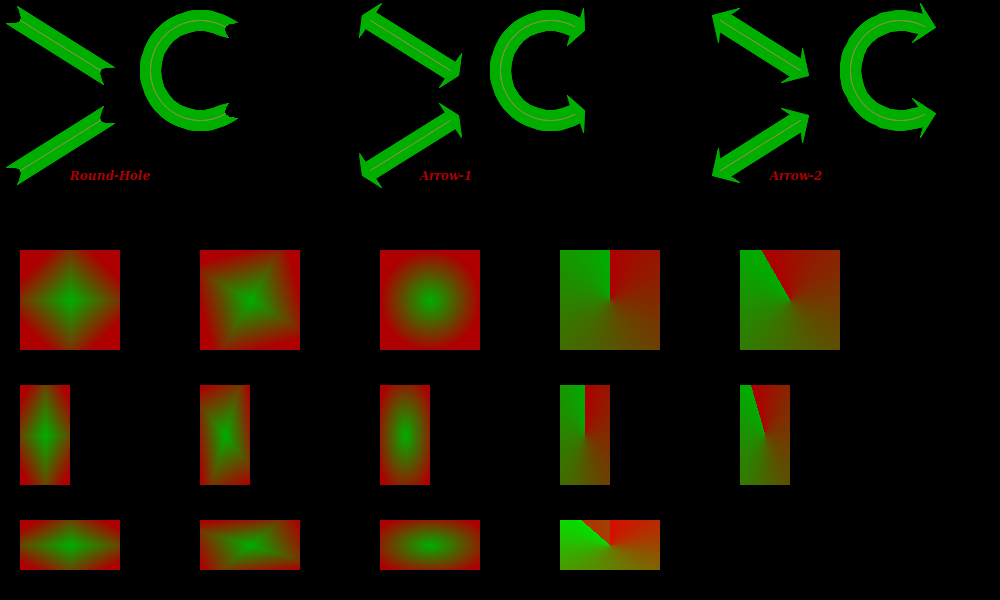
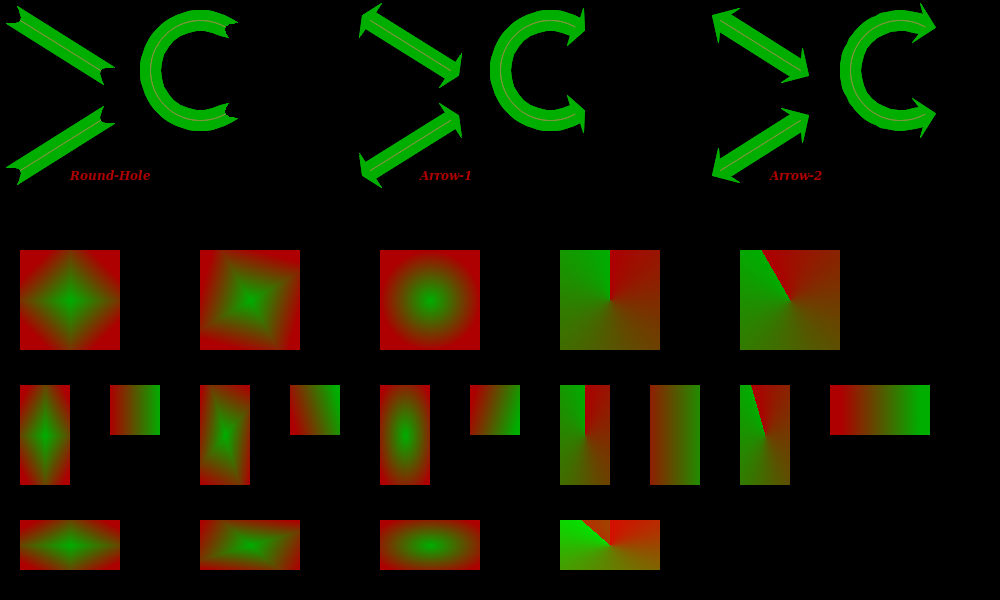
Cleanup on point clipping

diff --git a/src/Pt-Gfx/Rasterizer2.cpp b/src/Pt-Gfx/Rasterizer2.cpp
@@ -157,7 +157,8 @@ void Rasterizer2::setBrush( const Brush& brush )
             _brushImage = &_brushBuffer;
             break;
 
-        case Brush::DiamondGradient     : /* Fallthrough */
+        case Brush::LinearGradient      : /* Fallthrough */
+        case Brush::RectangularGradient : /* Fallthrough */
         case Brush::RadialGradient      : /* Fallthrough */
         case Brush::ConicalGradient     :
             _isGradient = true;
@@ -320,9 +321,10 @@ void Rasterizer2::updateGradientBrush(Pt::int32_t width, Pt::int32_t height)
             _brushBuffer.reset(_image->format(), Size(1, height));
             break;
 
-        case Pt::Gfx::Brush::DiamondGradient : /* Fallthrough */
-        case Pt::Gfx::Brush::RadialGradient  : /* Fallthrough */
-        case Pt::Gfx::Brush::ConicalGradient :
+        case Pt::Gfx::Brush::LinearGradient      : /* Fallthrough */
+        case Pt::Gfx::Brush::RectangularGradient : /* Fallthrough */
+        case Pt::Gfx::Brush::RadialGradient      : /* Fallthrough */
+        case Pt::Gfx::Brush::ConicalGradient     :
             // Resize the brush buffer
             _brushBuffer.reset(_image->format(), Size(width, height));
             break;
@@ -374,15 +376,56 @@ void Rasterizer2::updateGradientBrush(Pt::int32_t width, Pt::int32_t height)
 
     const float mfFac  = 2.0f / Gfx::Math::fastSqrt(xyRat * xyRat + yxRat * yxRat);
 
-    const float rad    = _brush.angle() * Gfx::Math::PiDiv180 - Gfx::Math::PiDiv2;
-    const float sval   = Gfx::Math::fastSin(rad);
-    const float cval   = Gfx::Math::fastCos(rad);
-
     Pt::uint8_t* pixel = _brushBuffer.data();
 
     switch(_brush.fillStyle()) {
-        case Pt::Gfx::Brush::DiamondGradient: {
+        case Pt::Gfx::Brush::LinearGradient: {
+            // Calculate the rotation
+            const float rad  = _brush.angle() * Gfx::Math::PiDiv180 - Gfx::Math::PiDiv4;
+            const float sval = Gfx::Math::fastSin(rad);
+            const float cval = Gfx::Math::fastCos(rad);
+            // Determine the reference line
+            const float wq  = Gfx::Math::fastSqrt(width * width + height * height) * 0.25f;
+            const float x1  = -wq;
+            const float y1  =  wq;
+            const float x2  =  wq;
+            const float y2  = -wq;
+            // Calculate the rotated reference line
+            const float rx1 = ( sval * x1 + cval * y1) + ctrX;
+            const float ry1 = ( cval * x1 - sval * y1) + ctrY;
+            const float rx2 = ( sval * x2 + cval * y2) + ctrX;
+            const float ry2 = ( cval * x2 - sval * y2) + ctrY;
+            // Calculate the gradient of the rotated reference line
+            const float rm  = (ry2 - ry1) / (rx1 - rx2);
+            // Create the gradient
+            //static int qqq = -180; qqq += 180;
+            //setPen(Color::fromRgb8(255,255,255,255));
+            //strokeOnePixelLine(Point(20 + 90 + qqq + rx1, 250 + 135 + ry1), Point(20 + 90 + qqq + rx2, 250 + 135 + ry2), 0);
+            for(Pt::int32_t y = 0; y < height; ++y) {
+                float const p0 = rm * (y - ry1) + rx1;
+                float const p1 = rm * (y - ry2) + rx2;
+                float const d  = 1.0f / (p1 - p0);
+                for(Pt::int32_t x = 0; x < width; ++x) {
+                    const float dist = d * (x - p0);
+                    const float mf   = (dist <= 0.0f) ? 0.0f : ( (dist >= 1.0f) ? 1.0f : dist );
+                    const float imf  = 1.0f - mf;
+                    *pixel++ = (bs * mf + be * imf);
+                    *pixel++ = (gs * mf + ge * imf);
+                    *pixel++ = (rs * mf + re * imf);
+                    *pixel++ = (as * mf + ae * imf);
+                }
+            }
+            break;
+        }
+
+        case Pt::Gfx::Brush::RectangularGradient: {
+            // Calculate the rotation
+            const float rad  = -_brush.angle() * Gfx::Math::PiDiv180;
+            const float sval = Gfx::Math::fastSin(rad);
+            const float cval = Gfx::Math::fastCos(rad);
+            // Calculate the inverse length
             const float ilen = mfFac / (ctrX + ctrY);
+            // Create the gradient
             for(Pt::int32_t y = 0; y < height; ++y) {
                 const float dy = (y - ctrY) * xyRat;
                 for(Pt::int32_t x = 0; x < width; ++x) {
@@ -402,7 +445,9 @@ void Rasterizer2::updateGradientBrush(Pt::int32_t width, Pt::int32_t height)
         }
 
         case Pt::Gfx::Brush::RadialGradient: {
+            // Calculate the inverse length
             const float ilen = mfFac / Gfx::Math::fastSqrt(ctrX * ctrX + ctrY * ctrY);
+            // Create the gradient
             for(Pt::int32_t y = 0; y < height; ++y) {
                 const float dy  = (y - ctrY) * xyRat;
                 for(Pt::int32_t x = 0; x < width; ++x) {
@@ -420,6 +465,11 @@ void Rasterizer2::updateGradientBrush(Pt::int32_t width, Pt::int32_t height)
         }
 
         case Pt::Gfx::Brush::ConicalGradient: {
+            // Calculate the rotation
+            const float rad  = _brush.angle() * Gfx::Math::PiDiv180 - Gfx::Math::PiDiv2;
+            const float sval = Gfx::Math::fastSin(rad);
+            const float cval = Gfx::Math::fastCos(rad);
+            // Create the gradient
             for(Pt::int32_t y = 0; y < height; ++y) {
                 const float dy = -(y - ctrY) * xyRat; // Sign inversion due to differences between cartesian and computer coordinate systems
                 for(Pt::int32_t x = 0; x < width; ++x) {
@@ -427,8 +477,8 @@ void Rasterizer2::updateGradientBrush(Pt::int32_t width, Pt::int32_t height)
                     const float ry   = (-sval * dx + cval * dy);
                     const float rx   = ( cval * dx + sval * dy);
                     const float dist = (Gfx::Math::fastAtan2(ry, rx) + Gfx::Math::Pi) / Gfx::Math::PiMul2;
-                          float mf   = (dist <= 0.0f) ? 0.0f : ( (dist >= 1.0f) ? 1.0f : dist );
-                          float imf  = 1.0f - mf;
+                    const float mf   = (dist <= 0.0f) ? 0.0f : ( (dist >= 1.0f) ? 1.0f : dist );
+                    const float imf  = 1.0f - mf;
                     *pixel++ = (bs * mf + be * imf);
                     *pixel++ = (gs * mf + ge * imf);
                     *pixel++ = (rs * mf + re * imf);

diff --git a/src/Pt-Gfx/tests/ImagePainterTest2_Draw_Extra.cpp b/src/Pt-Gfx/tests/ImagePainterTest2_Draw_Extra.cpp
@@ -73,11 +73,11 @@ static void testDrawExtra(const char* title, Image& image, Painter& painter)
 
     // --- Part 1 ---
 
-    // Diamond gradient
-    painter.setBrush( Brush(Color::fromRgb8(255, 0, 0, 175), Color::fromRgb8(0, 255, 0, 175), Brush::Diamond) );
+    // Rectangular gradient
+    painter.setBrush( Brush(Color::fromRgb8(255, 0, 0, 175), Color::fromRgb8(0, 255, 0, 175), Brush::Rectangular) );
     painter.fillRect( RectF(PointF(20, 250), SizeF(100, 100)) );
 
-    painter.setBrush( Brush(Color::fromRgb8(255, 0, 0, 175), Color::fromRgb8(0, 255, 0, 175), Brush::Diamond, 30.0f) );
+    painter.setBrush( Brush(Color::fromRgb8(255, 0, 0, 175), Color::fromRgb8(0, 255, 0, 175), Brush::Rectangular, 30.0f) );
     painter.fillRect( RectF(PointF(20 + 180, 250), SizeF(100, 100)) );
 
     // Radial gradient
@@ -93,11 +93,11 @@ static void testDrawExtra(const char* title, Image& image, Painter& painter)
 
     // --- Part 2 ---
 
-    // Diamond gradient
-    painter.setBrush( Brush(Color::fromRgb8(255, 0, 0, 175), Color::fromRgb8(0, 255, 0, 175), Brush::Diamond ) );
+    // Rectangular gradient
+    painter.setBrush( Brush(Color::fromRgb8(255, 0, 0, 175), Color::fromRgb8(0, 255, 0, 175), Brush::Rectangular ) );
     painter.fillRect( RectF(PointF(20, 250 + 135), SizeF(50, 100)) );
 
-    painter.setBrush( Brush(Color::fromRgb8(255, 0, 0, 175), Color::fromRgb8(0, 255, 0, 175), Brush::Diamond, 30.0f) );
+    painter.setBrush( Brush(Color::fromRgb8(255, 0, 0, 175), Color::fromRgb8(0, 255, 0, 175), Brush::Rectangular, 30.0f) );
     painter.fillRect( RectF(PointF(20 + 180, 250 + 135), SizeF(50, 100)) );
 
     // Radial gradient
@@ -111,13 +111,29 @@ static void testDrawExtra(const char* title, Image& image, Painter& painter)
     painter.setBrush( Brush(Color::fromRgb8(255, 0, 0, 175), Color::fromRgb8(0, 255, 0, 175), Brush::Conical, 30.0f) );
     painter.fillRect( RectF(PointF(20 + 720, 250 + 135), SizeF(50, 100)) );
 
+    // Linear gradient
+    painter.setBrush( Brush(Color::fromRgb8(255, 0, 0, 175), Color::fromRgb8(0, 255, 0, 175), Brush::Linear, 0.01f) );
+    painter.fillRect( RectF(PointF(20 + 90, 250 + 135), SizeF(50, 50)) );
+
+    painter.setBrush( Brush(Color::fromRgb8(255, 0, 0, 175), Color::fromRgb8(0, 255, 0, 175), Brush::Linear, 15.0f) );
+    painter.fillRect( RectF(PointF(20 + 90 + 180, 250 + 135), SizeF(50, 50)) );
+
+    painter.setBrush( Brush(Color::fromRgb8(255, 0, 0, 175), Color::fromRgb8(0, 255, 0, 175), Brush::Linear, -15.0f) );
+    painter.fillRect( RectF(PointF(20 + 90 + 360, 250 + 135), SizeF(50, 50)) );
+
+    painter.setBrush( Brush(Color::fromRgb8(255, 0, 0, 175), Color::fromRgb8(0, 255, 0, 175), Brush::Linear, 0.01f) );
+    painter.fillRect( RectF(PointF(20 + 90 + 540, 250 + 135), SizeF(50, 100)) );
+
+    painter.setBrush( Brush(Color::fromRgb8(255, 0, 0, 175), Color::fromRgb8(0, 255, 0, 175), Brush::Linear, 0.01f) );
+    painter.fillRect( RectF(PointF(20 + 90 + 720, 250 + 135), SizeF(100, 50)) );
+
     // --- Part 3 ---
 
-    // Diamond gradient
-    painter.setBrush( Brush(Color::fromRgb8(255, 0, 0, 175), Color::fromRgb8(0, 255, 0, 175), Brush::Diamond) );
+    // Rectangular gradient
+    painter.setBrush( Brush(Color::fromRgb8(255, 0, 0, 175), Color::fromRgb8(0, 255, 0, 175), Brush::Rectangular) );
     painter.fillRect( RectF(PointF(20, 250 + 270), SizeF(100, 50)) );
 
-    painter.setBrush( Brush(Color::fromRgb8(255, 0, 0, 175), Color::fromRgb8(0, 255, 0, 175), Brush::Diamond, 30.0f) );
+    painter.setBrush( Brush(Color::fromRgb8(255, 0, 0, 175), Color::fromRgb8(0, 255, 0, 175), Brush::Rectangular, 30.0f) );
     painter.fillRect( RectF(PointF(20 + 180, 250 + 270), SizeF(100, 50)) );
 
     // Radial gradient

diff --git a/src/Pt-Gfx/Brush.cpp b/src/Pt-Gfx/Brush.cpp
@@ -124,12 +124,13 @@ BrushData::BrushData(const Color& from, const Color& to, Brush::GradientDirectio
 , _isNull(false)
 {
     switch(g) {
-        case Brush::Horizontal : _fillStyle = Brush::HorizontalGradient; break;
-        case Brush::Vertical   : _fillStyle = Brush::VerticalGradient;   break;
-        case Brush::Diamond    : _fillStyle = Brush::DiamondGradient;    break;
-        case Brush::Radial     : _fillStyle = Brush::RadialGradient;     break;
-        case Brush::Conical    : _fillStyle = Brush::ConicalGradient;    break;
-        default                : _fillStyle = Brush::Solid;              break;
+        case Brush::Horizontal  : _fillStyle = Brush::HorizontalGradient;  break;
+        case Brush::Vertical    : _fillStyle = Brush::VerticalGradient;    break;
+        case Brush::Linear      : _fillStyle = Brush::LinearGradient;      break;
+        case Brush::Rectangular : _fillStyle = Brush::RectangularGradient; break;
+        case Brush::Radial      : _fillStyle = Brush::RadialGradient;      break;
+        case Brush::Conical     : _fillStyle = Brush::ConicalGradient;     break;
+        default                 : _fillStyle = Brush::Solid;               break;
     }
 }
 

diff --git a/include/Pt/Gfx/Brush.h b/include/Pt/Gfx/Brush.h
@@ -44,22 +44,24 @@ class PT_GFX_API Brush
     public:
         enum FillStyle
         {
-            Solid              = 0,
-            Texture            = 1,
-            HorizontalGradient = 2,
-            VerticalGradient   = 3,
-            DiamondGradient    = 4,
-            RadialGradient     = 5,
-            ConicalGradient    = 6
+            Solid               = 0,
+            Texture             = 1,
+            HorizontalGradient  = 2,
+            VerticalGradient    = 3,
+            LinearGradient      = 4,
+            RectangularGradient = 5,
+            RadialGradient      = 6,
+            ConicalGradient     = 7
         };
 
         enum GradientDirection
         {
-            Horizontal = 0,
-            Vertical   = 1,
-            Diamond    = 2,
-            Radial     = 3,
-            Conical    = 4
+            Horizontal  = 0,
+            Vertical    = 1,
+            Linear      = 2,
+            Rectangular = 3,
+            Radial      = 4,
+            Conical     = 5
         };
 
     public:

diff --git a/src/Pt-Gfx/tests/ImagePainterTest2.cpp b/src/Pt-Gfx/tests/ImagePainterTest2.cpp
@@ -71,7 +71,7 @@ using namespace Pt::Gfx;
 
 // Detailed-test enable settings for Pt-Gfx
 #define TEST_SOURCECOPY                         1
-#define TEST_SOURCEOVER                         0
+#define TEST_SOURCEOVER                         1
 
 #define TEST_DRAW_SOLID_LINE_AND_TEXT           0 // (including bezier)
 #define TEST_DRAW_PATTERNED_LINE                0 // (including bezier)
